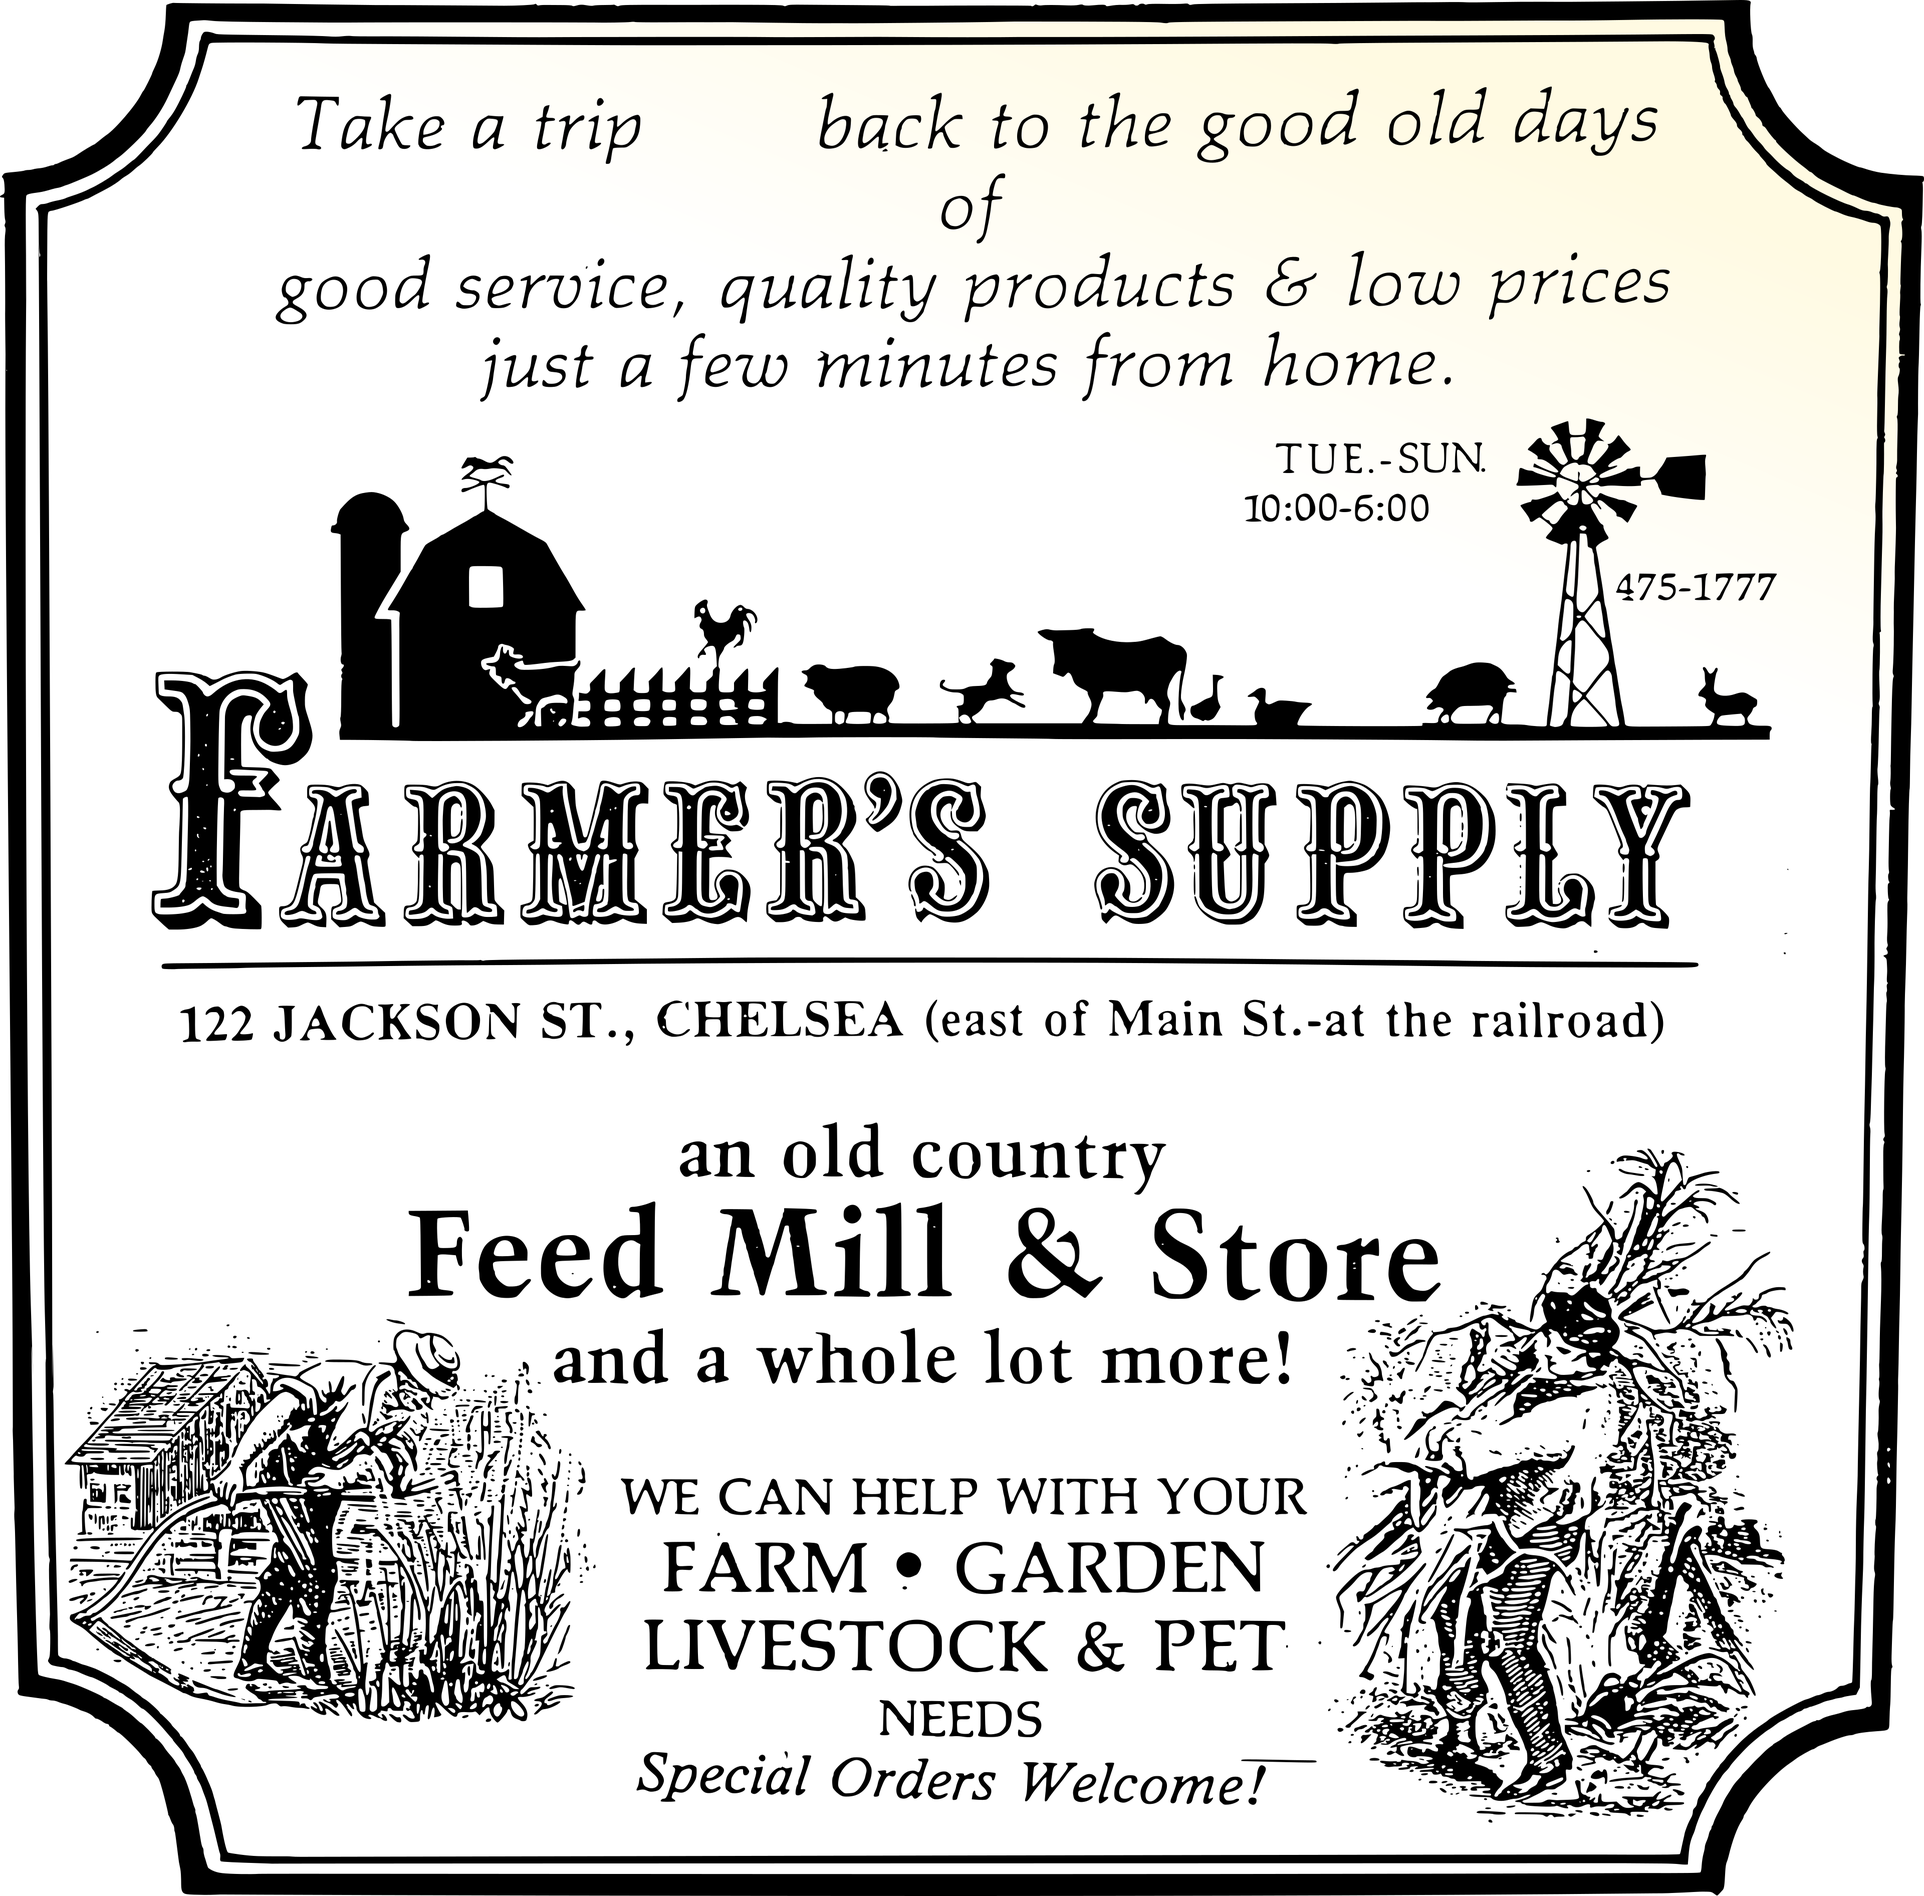
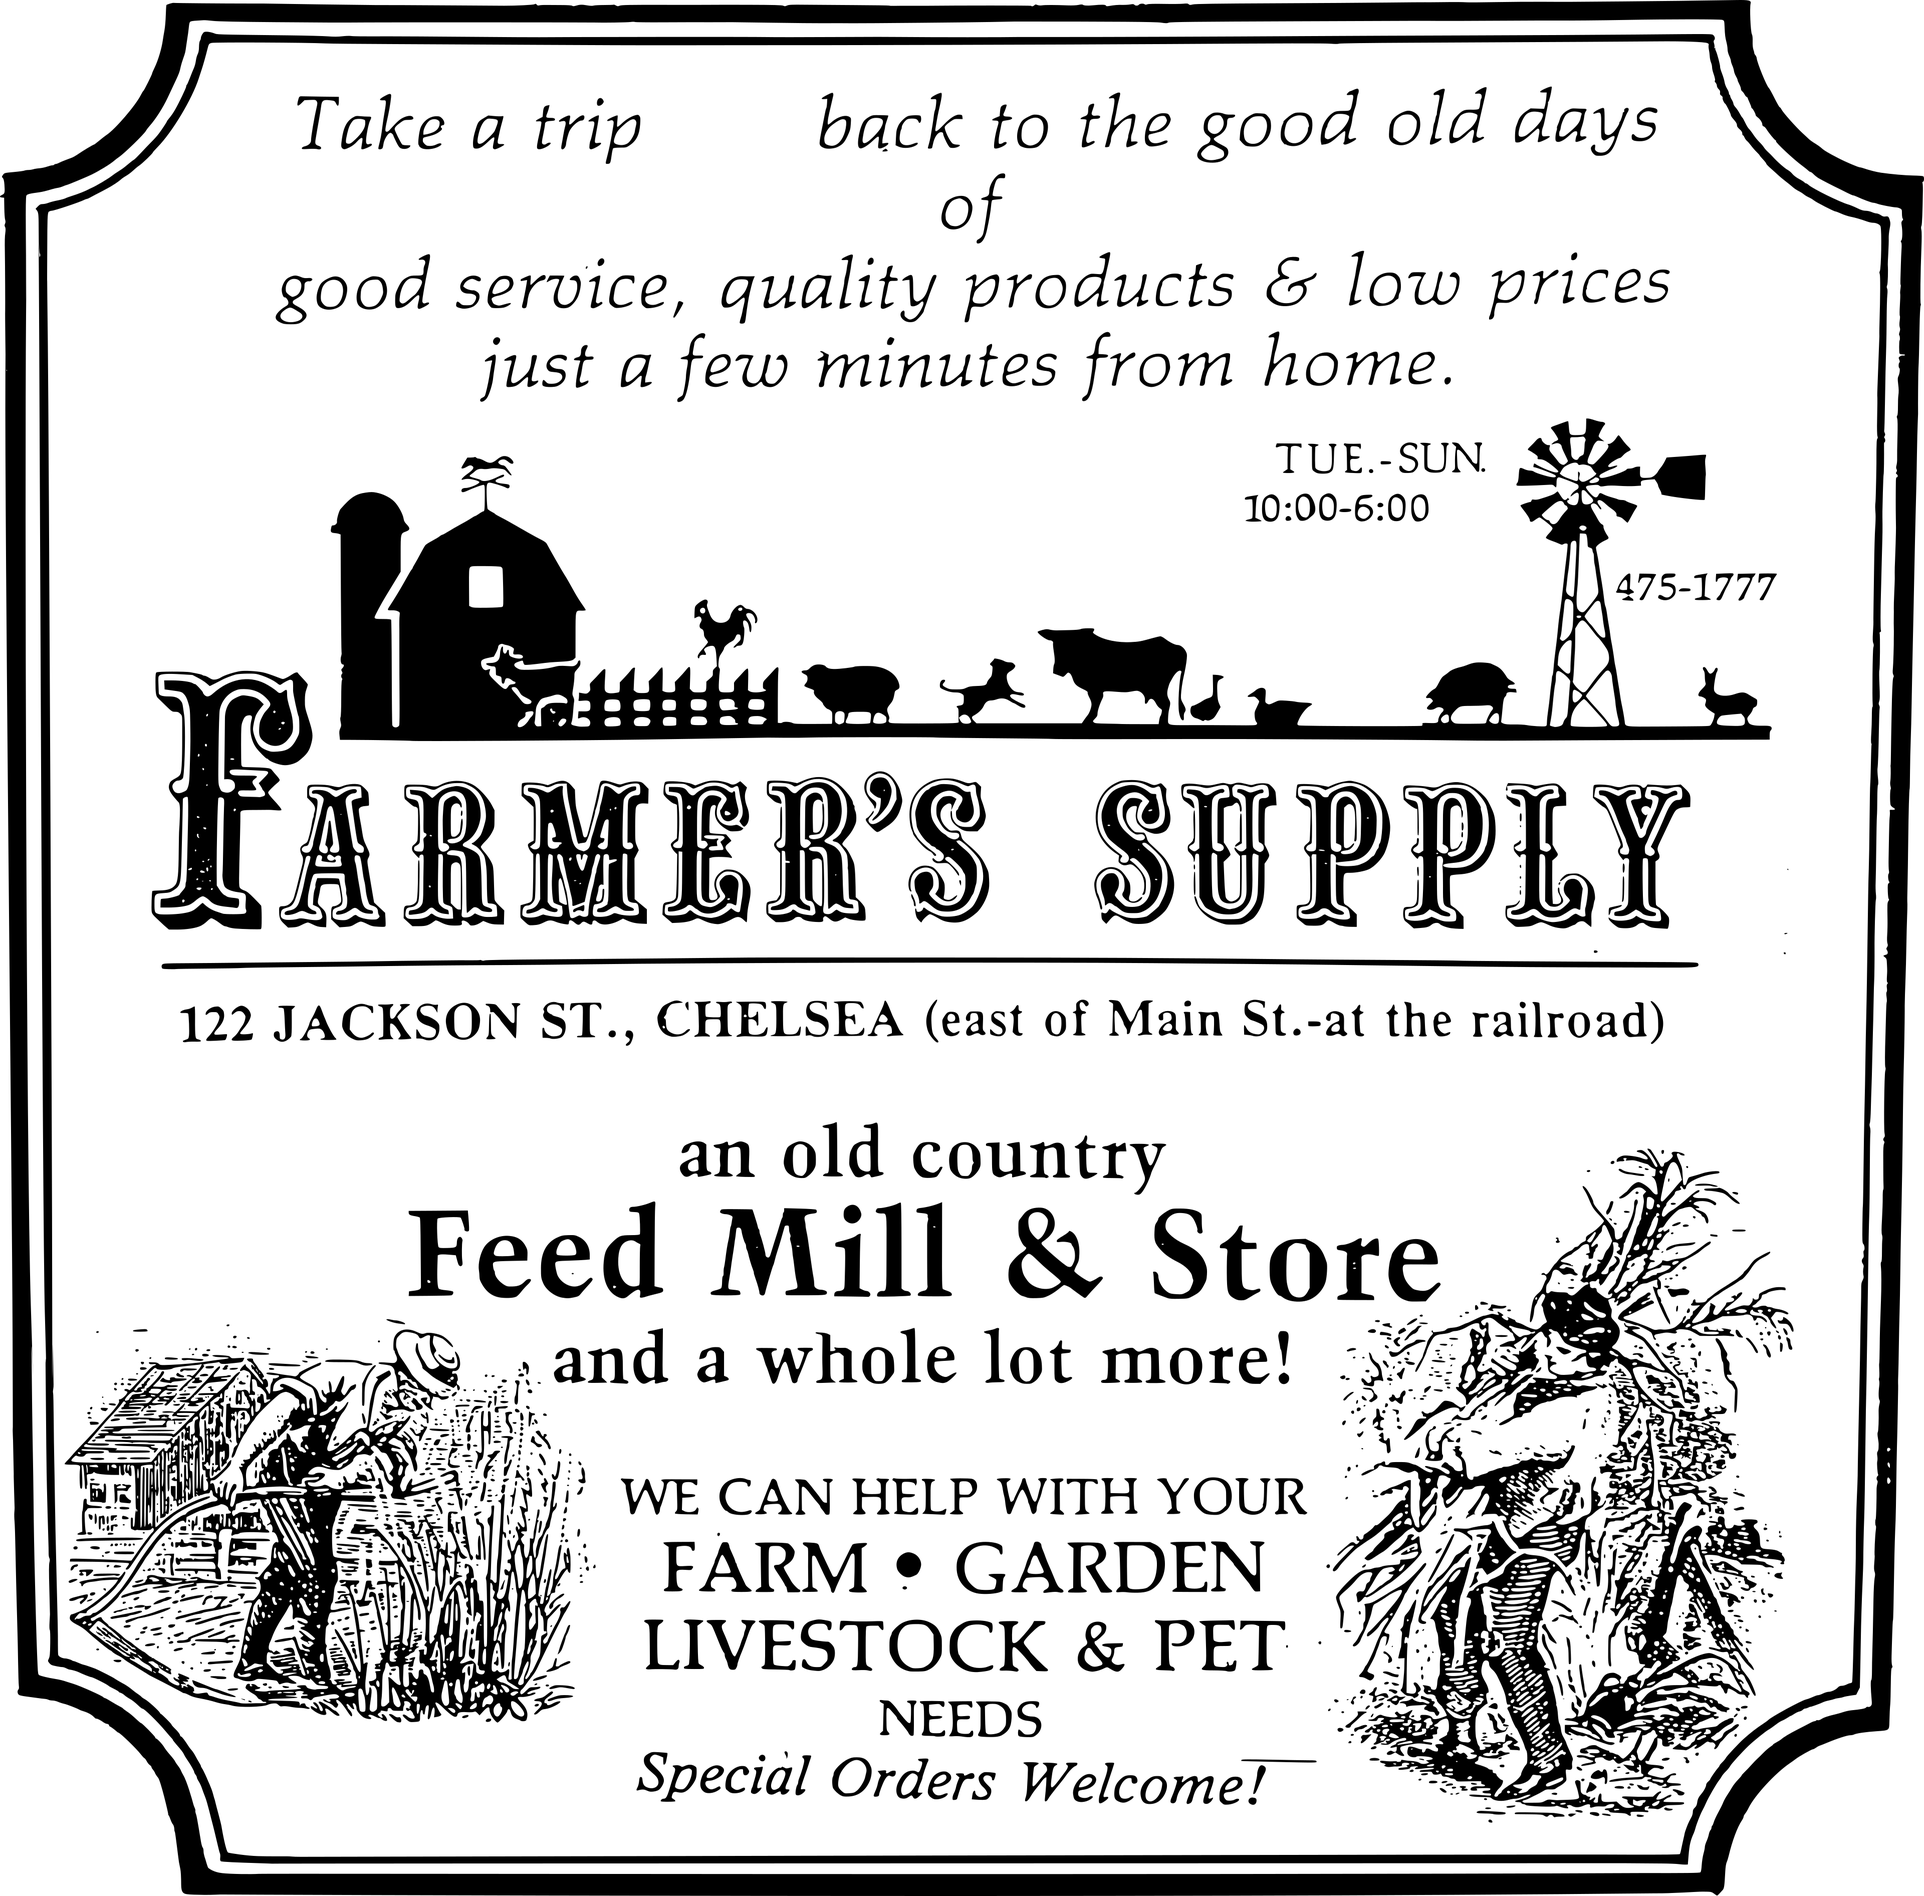
section padding and signboard gradient removed

Changed region(s): [[0.5625, 0.0, 1.0, 0.1871]]

diff --git a/style.css b/style.css
@@ -424,7 +424,7 @@ nav a:hover {
 
 /* Sections */
 .section {
-    padding: 5rem 0 5rem 0;
+    padding: 1em 0;
     /* scroll-margin-top: 6em; */
 }
 
